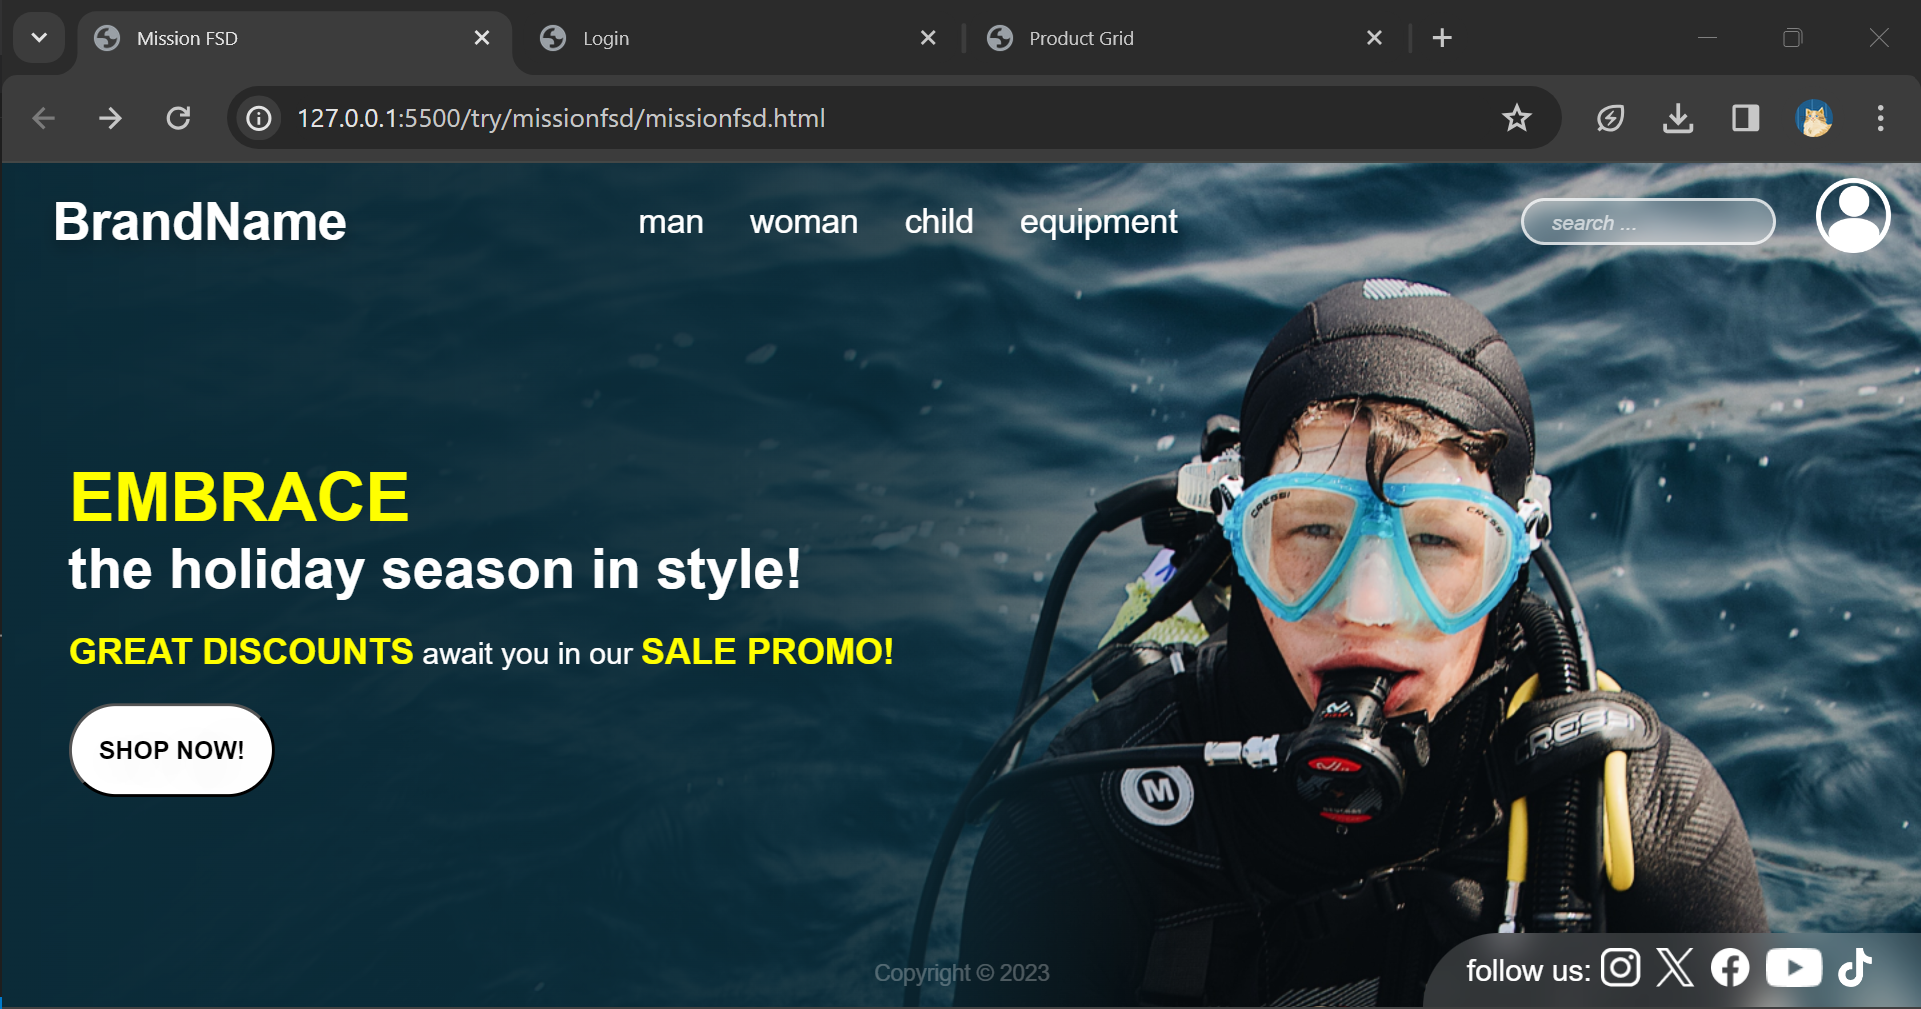
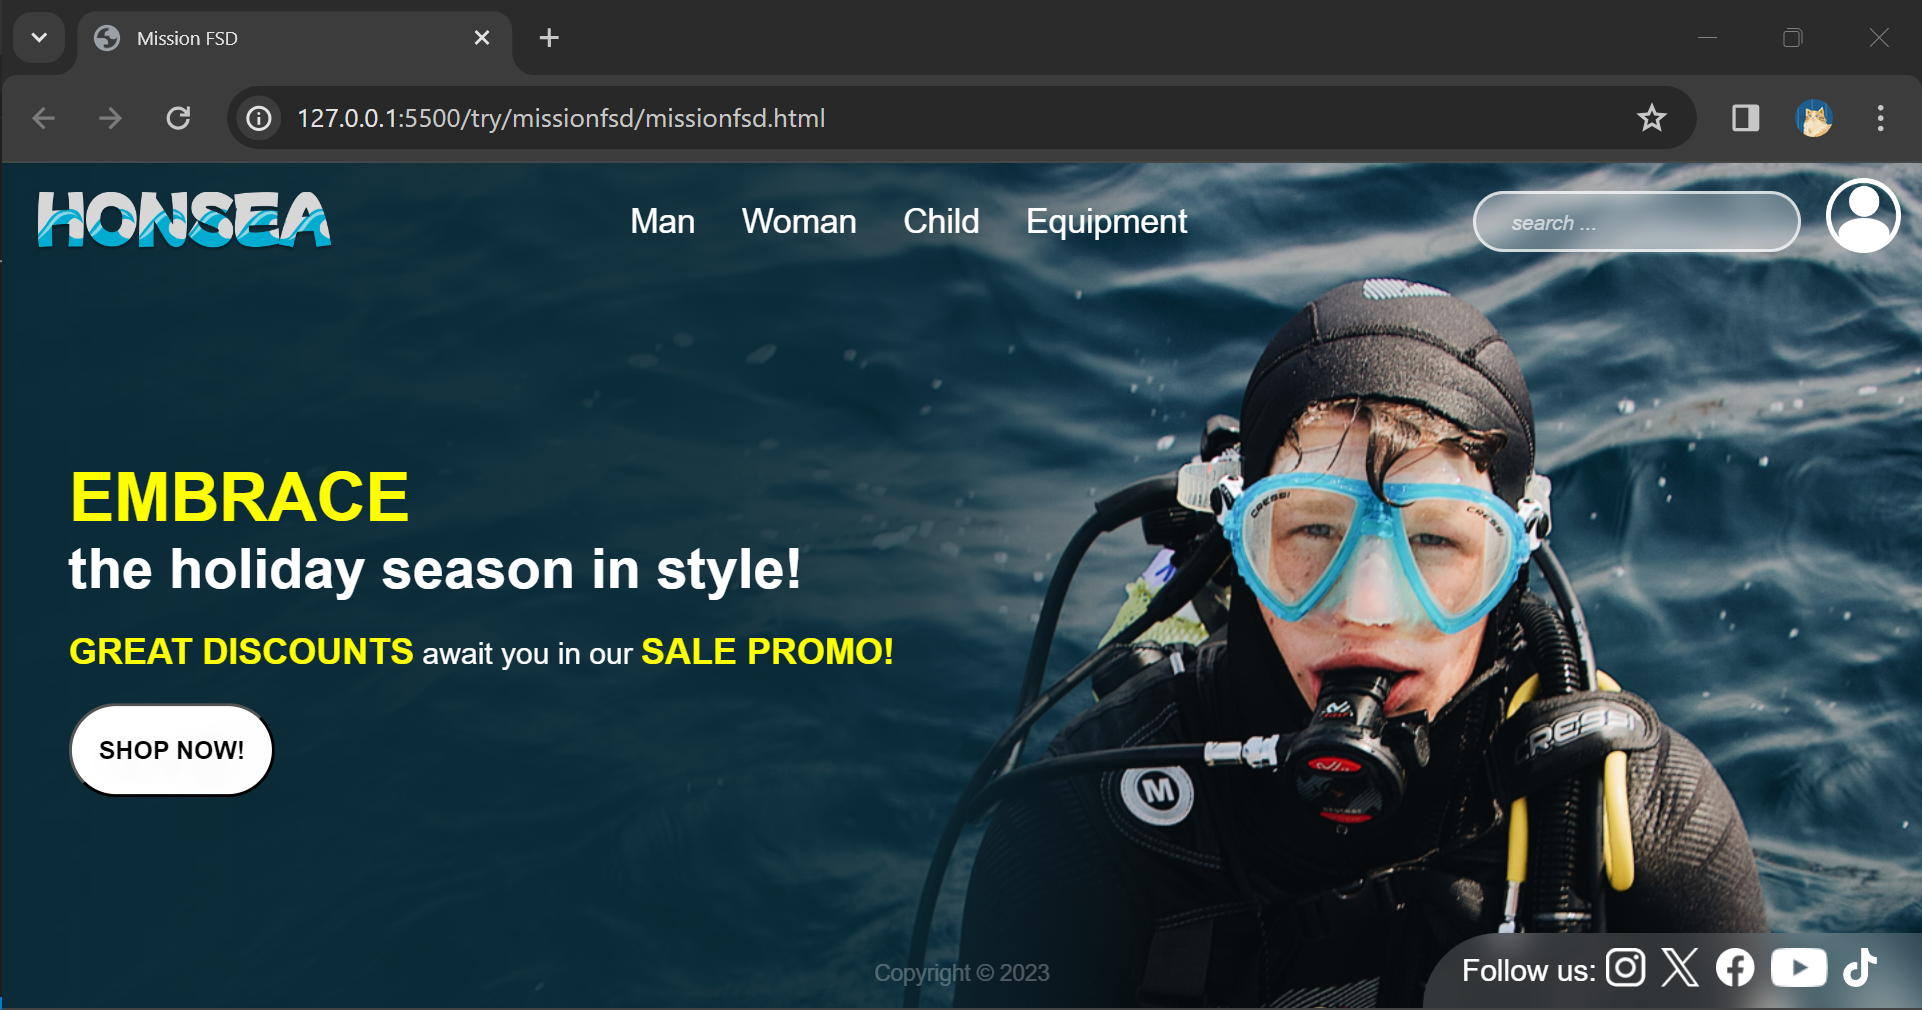
revisi brandname, serach, href, dan shopnow

diff --git a/missionfsd.html b/missionfsd.html
@@ -11,12 +11,12 @@
   <body>
     <header>
       <nav class="flexbox">
-        <div class="brand">BrandName</div>
+        <img class="brand" src="image/HONSEA.png" alt="honsea" />
         <div class="middle">
-          <a href="#pria">man</a>
-          <a href="#wanita">woman</a>
-          <a href="#anak">child</a>
-          <a href="#equipment">equipment</a>
+          <a href="#pria">Man</a>
+          <a href="#wanita">Woman</a>
+          <a href="#anak">Child</a>
+          <a href="#equipment">Equipment</a>
         </div>
         <div class="search-acc">
           <input id="box" type="text" placeholder="search ..." />
@@ -33,7 +33,6 @@
 
     <section id="product-thumbnail-section">
       <div class="product-thumbnail">
-        <!-- <img class="scuba" src="image/maarten-van-den-heuvel-VAdFzJJDzgg-unsplash.jpg" alt="Product Thumbnail" /> -->
         <div class="product-info">
           <h3><b>Embrace</b></h3>
           <h3>the holiday season in style!</h3>
@@ -48,7 +47,7 @@
       <div class="boxx">
         <nav class="flexbox2">
           <div class="follow">
-            <a href="#follow">follow us:</a>
+            <a href="#follow">Follow us:</a>
           </div>
           <div class="sosmed">
             <a href="#ig"><img class="ig" src="image/instagram.png" /></a>
@@ -67,11 +66,12 @@
       document.addEventListener("DOMContentLoaded", function () {
         var button = document.querySelector('button[type="button"]');
         button.addEventListener("click", function () {
-          window.open("shopnow.html", "_blank");
+          window.location.href = "shopnow.html"; // Replace with the actual URL of the target page
         });
       });
+
       document.querySelector(".akun").addEventListener("click", function () {
-        window.open("login.html", "_blank"); // Replace with the actual URL of the target page
+        window.location.href = "login.html"; 
       });
     </script>
   </body>

diff --git a/stylemision.css b/stylemision.css
@@ -48,23 +48,19 @@ body::after {
 }
 
 .brand {
+  height: 31px;
+  margin-left: 10px;
   justify-self: left;
-  text-shadow: 0px 4px 8px #00000040;
-
-  font-weight: 750;
-  color: #ffffff;
-  font-size: 28px;
-  text-indent: 12%;
 }
 
 #box {
   /* position: absolute; */
-  width: 60%;
-  height: 20px;
+  width: 26;
+  height: 27px;
   left: 0;
-  border-radius: 15px;
+  border-radius: 20px;
   border: #ffffffb2 2px solid;
-  margin-right: 10%;
+  margin-right: 6%;
   text-indent: 5%;
   color: #ffffff;
 
@@ -97,6 +93,7 @@ body::after {
 .button-account{
   width: 40px;
   height: 40px;
+  margin-right: 10px;
 }
 
 .boxx {
@@ -167,12 +164,6 @@ body::after {
   font-family: "Kumbh Sans-Regular", Helvetica;
   font-weight: 750;
   align-content: center;
-}
-
-.scuba {
-  object-fit: scale-down; /* Crop image to fill the container */
-  height: 100px; /* Set a fixed height */
-  width: 100px; /* Set a fixed width */
 }
 
 #product-thumbnail-section {

diff --git a/shopnow.html b/shopnow.html
@@ -8,9 +8,16 @@
   </head>
   <body>
     <header>
-      <div>
-        <img src="image/cart.png" alt="Product Image" />
+      <div class="cart">
+        <img class="cartim" src="image/cart.png" alt="cart" />
         <p>0</p>
+      </div>
+      <div class="honsea">
+        <img class="brand" src="image/HONSEA.png" alt="honsea" />
+        <h5>SHOP</h5>
+      </div>
+      <div class="home">
+        <img class="homeim" src="image/HOME.png" alt="home" />
       </div>
     </header>
     <section class="product-grid">
@@ -41,7 +48,12 @@
         <p>Rp 364.000</p>
         <button type="button">Add to Cart</button>
       </div>
-      <!-- Repeat the above div block for each product you want to display -->
+      
+      <script>
+        document.querySelector(".homeim").addEventListener("click", function () {
+        window.location.href = "missionfsd.html"; 
+      });
+      </script>
     </section>
   </body>
 </html>

diff --git a/shopnow.css b/shopnow.css
@@ -8,12 +8,24 @@ body {
 header {
   justify-content: flex-end;
   align-items: flex-start;
+  display: flex;
+  flex-direction: row;
+  justify-content: space-between;
+  align-items: center;
 }
 
-header img {
+.cartim, .homeim {
   float: right;
   padding: 5px;
+  width: 30px;
 }
+
+.brand{
+  height: 50px;
+}
+
+
+
 
 header div{
     flex-direction: row;
